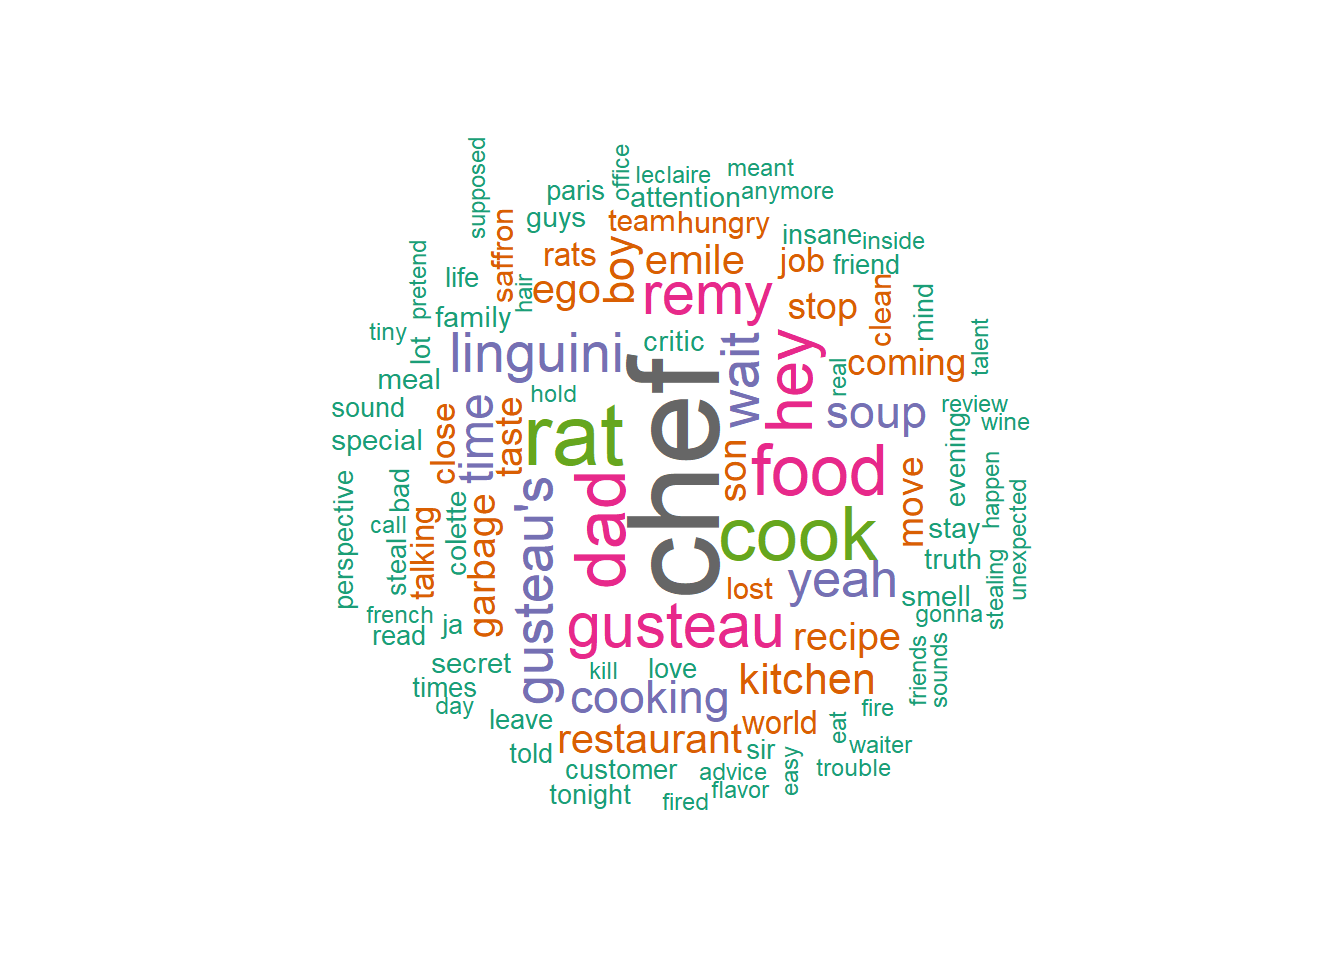
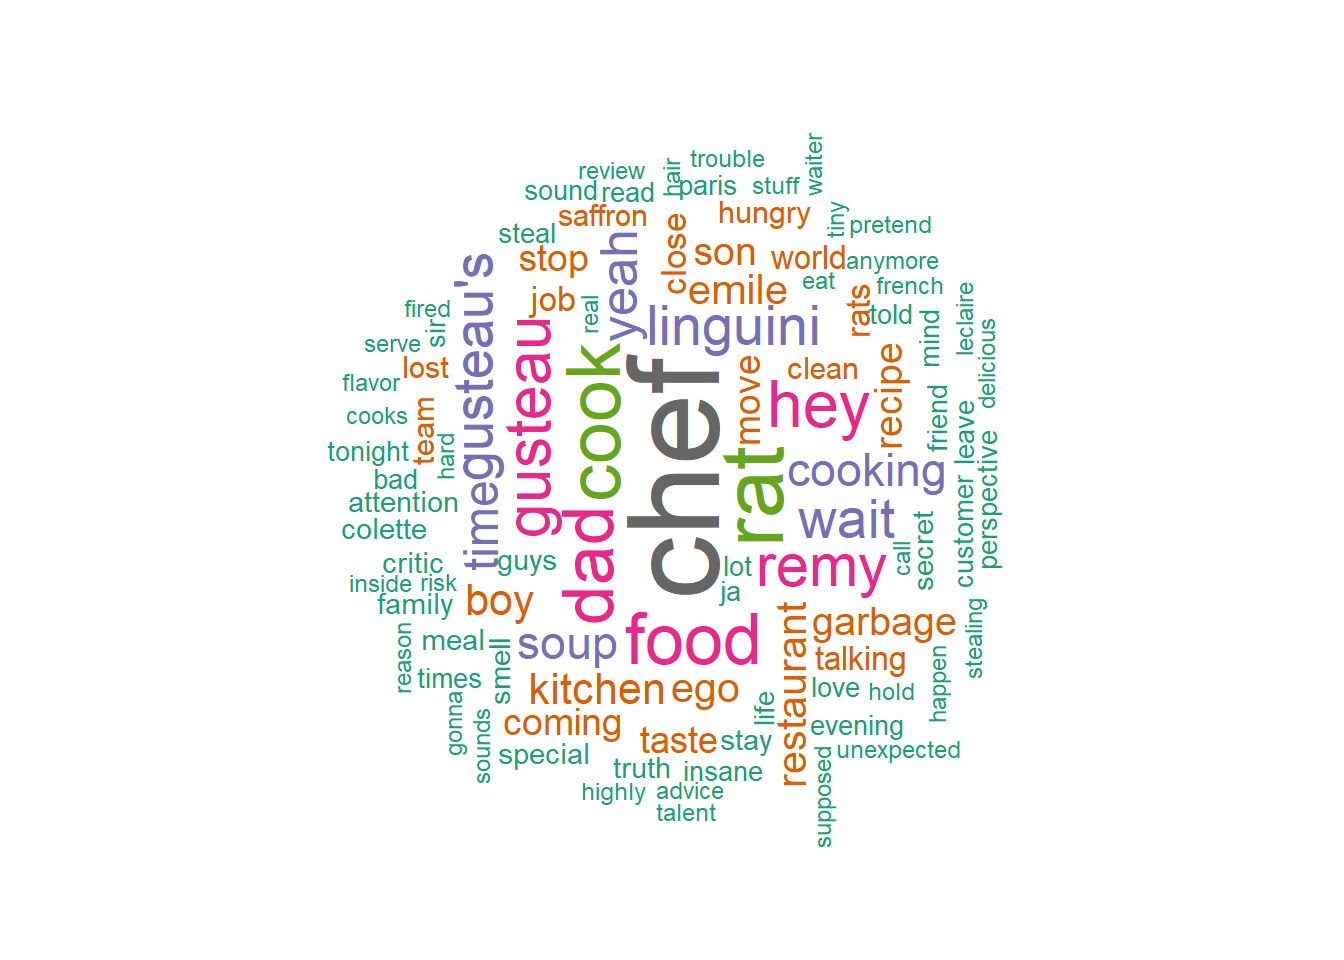
RATATOUILLE

Changed region(s): [[0.25, 0.125, 0.7812, 0.875]]

diff --git a/docs/RATATOUILLE.html b/docs/RATATOUILLE.html
@@ -239,8 +239,8 @@ pre > code.sourceCode > span > a:first-child::before { text-decoration: underlin
 <span id="cb1-2"><a href="#cb1-2" aria-hidden="true" tabindex="-1"></a>  <span class="at">word =</span> <span class="fu">gsub</span>(<span class="st">"([[:punct:]])(?=[^[:alnum:]]*$)"</span>, <span class="st">""</span>, word, <span class="at">perl =</span> <span class="cn">TRUE</span>))<span class="sc">|&gt;</span></span>
 <span id="cb1-3"><a href="#cb1-3" aria-hidden="true" tabindex="-1"></a>  <span class="fu">count</span>(word, <span class="at">sort=</span><span class="cn">TRUE</span>)<span class="sc">|&gt;</span></span>
 <span id="cb1-4"><a href="#cb1-4" aria-hidden="true" tabindex="-1"></a>  <span class="fu">anti_join</span>(stop_words)<span class="sc">|&gt;</span></span>
-<span id="cb1-5"><a href="#cb1-5" aria-hidden="true" tabindex="-1"></a>  <span class="fu">slice</span>(<span class="dv">2</span><span class="sc">:</span><span class="dv">100</span>)<span class="sc">|&gt;</span></span>
-<span id="cb1-6"><a href="#cb1-6" aria-hidden="true" tabindex="-1"></a>  <span class="fu">mutate</span>(<span class="at">id =</span> <span class="dv">1</span><span class="sc">:</span><span class="dv">99</span>)</span></code><button title="Copy to Clipboard" class="code-copy-button"><i class="bi"></i></button></pre></div>
+<span id="cb1-5"><a href="#cb1-5" aria-hidden="true" tabindex="-1"></a>  <span class="fu">slice</span>(<span class="dv">2</span><span class="sc">:</span><span class="dv">101</span>)<span class="sc">|&gt;</span></span>
+<span id="cb1-6"><a href="#cb1-6" aria-hidden="true" tabindex="-1"></a>  <span class="fu">mutate</span>(<span class="at">id =</span> <span class="dv">1</span><span class="sc">:</span><span class="dv">100</span>)</span></code><button title="Copy to Clipboard" class="code-copy-button"><i class="bi"></i></button></pre></div>
 <div class="cell-output cell-output-stderr">
 <pre><code>Joining with `by = join_by(word)`</code></pre>
 </div>
